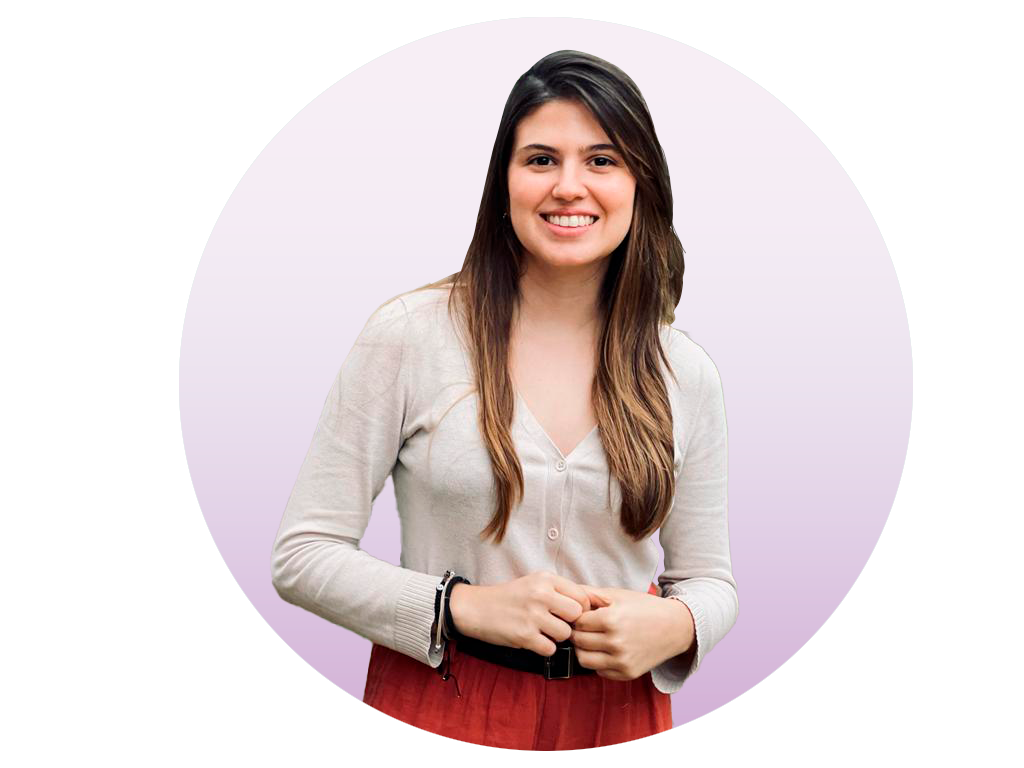
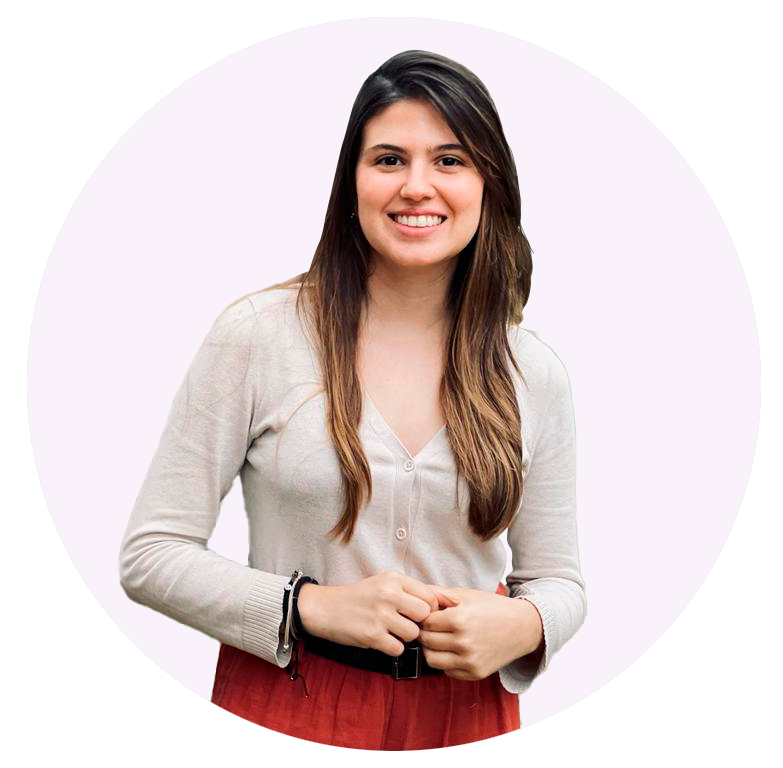
Change background Color

Changed region(s): [[0.1533, 0.0625, 0.8889, 1.0], [0.705, 0.5312, 0.7356, 0.5625]]

diff --git a/src/style.css b/src/style.css
@@ -3,8 +3,8 @@
 @tailwind utilities;
 
 :root {
-  --baseColor: hsla(282, 19%, 90%, 0.80);
-  --baseDarkColor: hsla(282, 19%, 90%, 1.00);
+  --baseColor: hsla(282, 19%, 90%, 1.00);
+  --baseDarkColor: hsla(282, 25%, 70%, 1.00);
   --DarkSoftText: hsla(282, 29%,50%, 1.00);
   --DarkText: hsla(282, 19%,10%, 1.00);
 }
